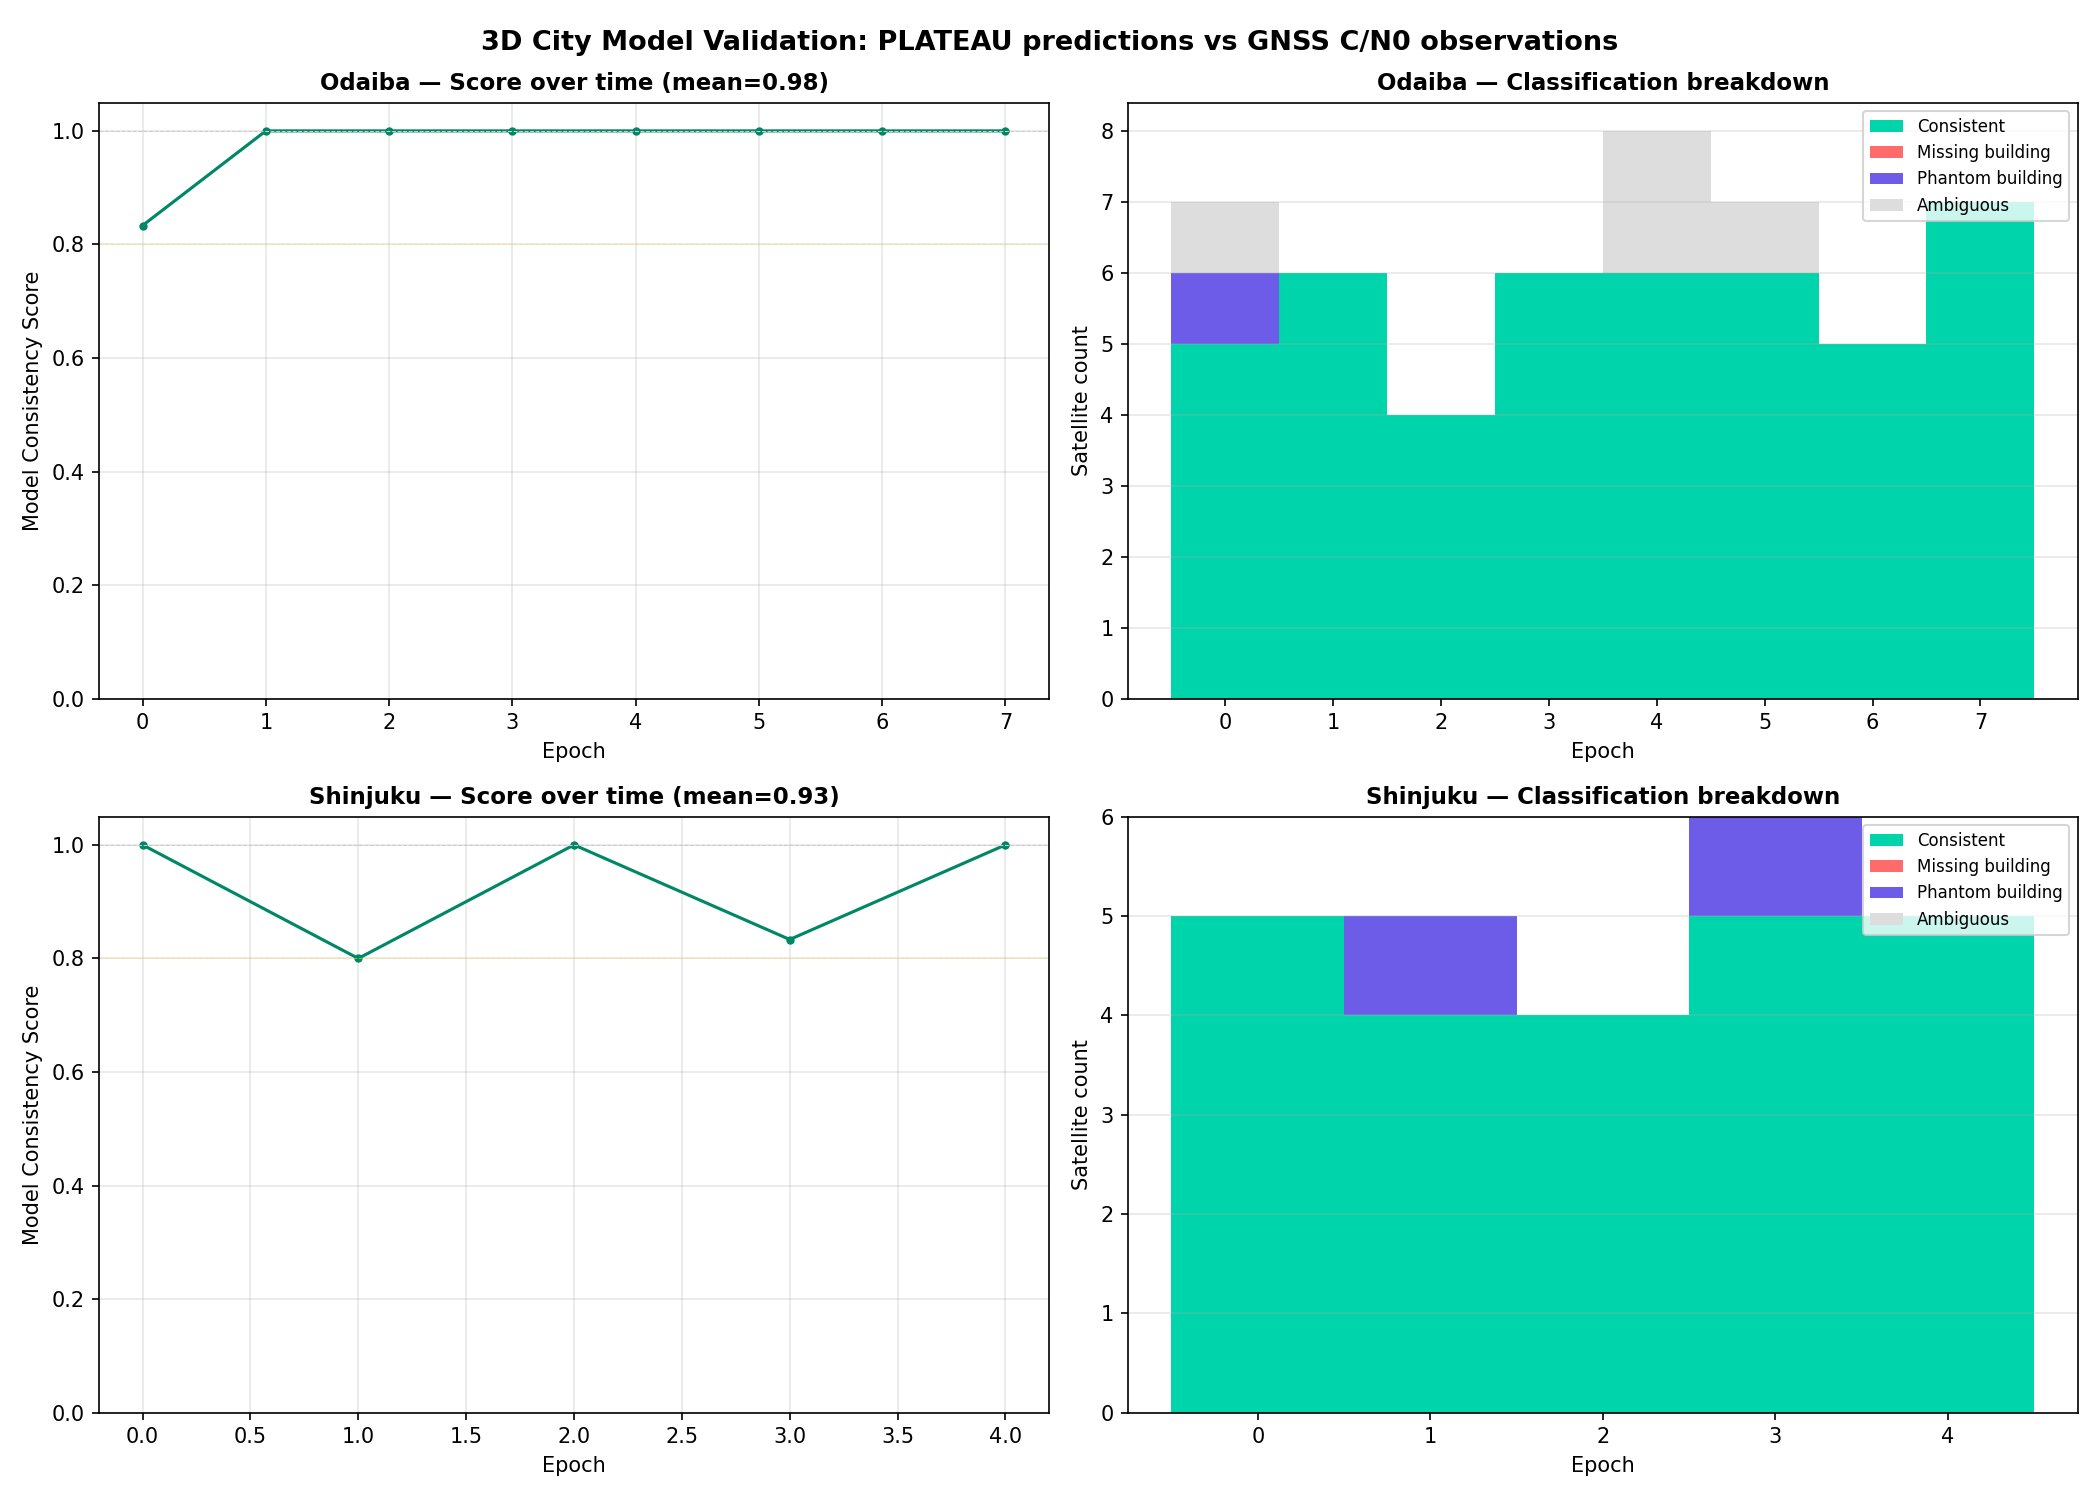
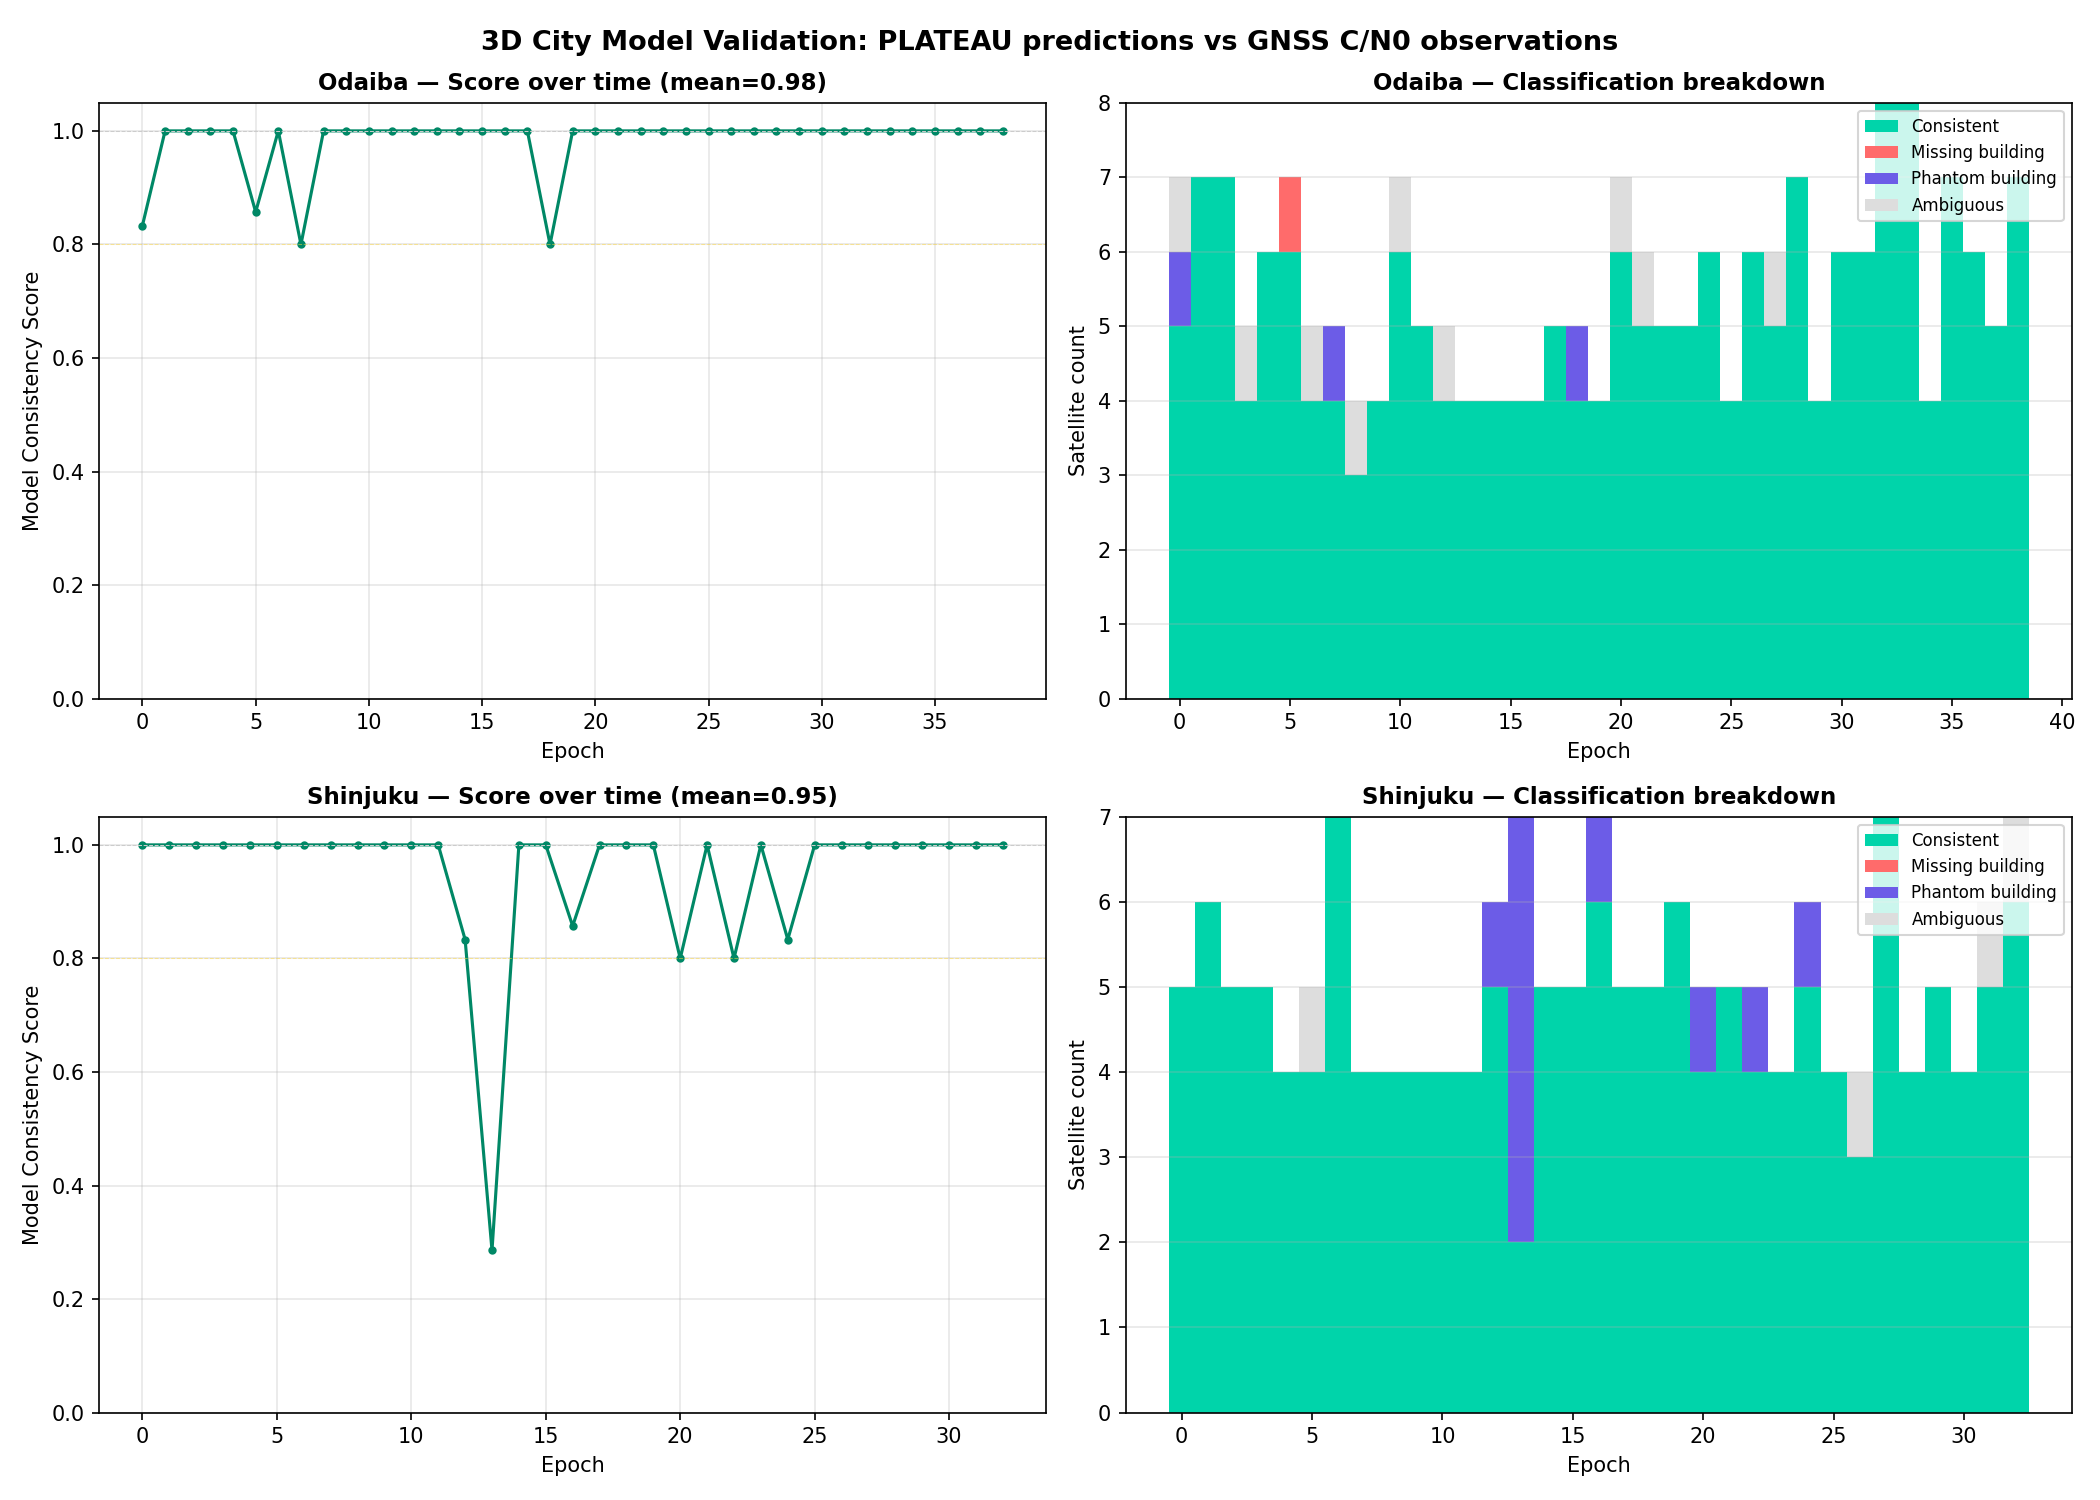
Address review: GPS TOW fix, more epochs, tests, docs
- Fix GPS TOW: use _datetime_to_gps_seconds_of_week (not manual weekday math)
- Increase epoch count: step=50 + interpolation + 10s gap threshold
  Odaiba: 8 -> 39 epochs, Shinjuku: 5 -> 33 epochs
- Add 11 unit tests for classify_satellite (all 4 outcomes + edge cases)
- Document find_cn0 observation code lookup per constellation

diff --git a/experiments/exp_city_model_validation.py b/experiments/exp_city_model_validation.py
@@ -16,7 +16,7 @@ import matplotlib.patches as mpatches
 import numpy as np
 
 from gnss_gpu.io.rinex import read_rinex_obs
-from gnss_gpu.io.nav_rinex import read_nav_rinex_multi
+from gnss_gpu.io.nav_rinex import read_nav_rinex_multi, _datetime_to_gps_seconds_of_week
 from gnss_gpu.ephemeris import Ephemeris
 from gnss_gpu.io.plateau import PlateauLoader
 from gnss_gpu.bvh import BVHAccelerator
@@ -39,7 +39,15 @@ def load_reference(csv_path, step=100):
 
 
 def find_cn0(obs_dict, system_prefix):
-    """Extract C/N0 from observation dict. Try S1C, S1X, S1I etc."""
+    """Extract L1-band C/N0 [dB-Hz] from a RINEX observation dict.
+
+    RINEX uses different observation codes per constellation:
+      GPS:     S1C (C/A code)
+      Galileo: S1X (pilot), S1B (data)
+      BeiDou:  S1I
+      QZSS:    S1C, S1L, S1Z
+    We try them in priority order and return the first positive value.
+    """
     for key in ["S1C", "S1X", "S1I", "S1L", "S1Z"]:
         if key in obs_dict and obs_dict[key] > 0:
             return obs_dict[key]
@@ -80,21 +88,30 @@ def run_validation(area_name, obs_path, nav_path, ref_path,
     for fi, ei in enumerate(epoch_indices):
         ep = rinex.epochs[ei]
 
-        # Find nearest reference position
-        # Convert epoch time to GPS TOW
-        dt = ep.time
-        gps_tow = (dt.hour * 3600 + dt.minute * 60 + dt.second +
-                    dt.microsecond / 1e6)
-        # Adjust for day offset
-        day_offset = (dt.weekday() + 1) % 7  # GPS week starts Sunday
-        gps_tow += day_offset * 86400
+        # Convert epoch time to GPS TOW using the canonical helper
+        gps_tow = _datetime_to_gps_seconds_of_week(ep.time)
 
-        # Find nearest reference
+        # Find nearest reference position (interpolate if within 2s)
         time_diffs = np.abs(ref_times - gps_tow)
         nearest_idx = np.argmin(time_diffs)
-        if time_diffs[nearest_idx] > 5.0:  # skip if >5s gap
+        if time_diffs[nearest_idx] > 10.0:  # skip if >10s gap
             continue
-        rx_ecef = ref_pos[nearest_idx]
+        if (time_diffs[nearest_idx] < 0.5 or nearest_idx == 0
+                or nearest_idx == len(ref_times) - 1):
+            rx_ecef = ref_pos[nearest_idx]
+        else:
+            # Linear interpolation between two nearest reference positions
+            if gps_tow > ref_times[nearest_idx] and nearest_idx < len(ref_times) - 1:
+                i0, i1 = nearest_idx, nearest_idx + 1
+            else:
+                i0, i1 = max(0, nearest_idx - 1), nearest_idx
+            dt_span = ref_times[i1] - ref_times[i0]
+            if dt_span > 0:
+                alpha = (gps_tow - ref_times[i0]) / dt_span
+                alpha = max(0.0, min(1.0, alpha))
+                rx_ecef = (1 - alpha) * ref_pos[i0] + alpha * ref_pos[i1]
+            else:
+                rx_ecef = ref_pos[nearest_idx]
 
         # Get GPS satellites with C/N0
         gps_sats = []
@@ -208,7 +225,7 @@ def main():
         nav_path="experiments/data/urbannav/Odaiba/base.nav",
         ref_path="experiments/data/urbannav/Odaiba/reference.csv",
         plateau_dir="experiments/data/plateau_odaiba",
-        max_epochs=30, step=400,
+        max_epochs=40, step=50,
     )
 
     # Shinjuku
@@ -218,7 +235,7 @@ def main():
         nav_path="experiments/data/urbannav/Shinjuku/base.nav",
         ref_path="experiments/data/urbannav/Shinjuku/reference.csv",
         plateau_dir="experiments/data/plateau_shinjuku",
-        max_epochs=30, step=400,
+        max_epochs=40, step=50,
     )
 
     # Plot

diff --git a/tests/test_city_model_validator.py b/tests/test_city_model_validator.py
@@ -1,0 +1,87 @@
+"""Tests for city_model_validator.classify_satellite()."""
+
+import math
+
+import numpy as np
+import pytest
+
+from gnss_gpu.city_model_validator import (
+    classify_satellite,
+    validate_epoch,
+    CN0_LOS_THRESHOLD,
+    CN0_NLOS_THRESHOLD,
+    ELEVATION_MASK_DEG,
+)
+
+
+class TestClassifySatellite:
+    """Test the 4-way classification logic."""
+
+    def test_los_predicted_strong_signal(self):
+        """Model says LOS, signal is strong -> consistent."""
+        assert classify_satellite(True, 40.0, 45.0) == "consistent"
+
+    def test_nlos_predicted_weak_signal(self):
+        """Model says NLOS, signal is weak -> consistent."""
+        assert classify_satellite(False, 20.0, 45.0) == "consistent"
+
+    def test_los_predicted_weak_signal(self):
+        """Model says LOS, signal is weak -> missing building."""
+        assert classify_satellite(True, 15.0, 45.0) == "missing_building"
+
+    def test_nlos_predicted_strong_signal(self):
+        """Model says NLOS, signal is strong -> phantom building."""
+        assert classify_satellite(False, 40.0, 45.0) == "phantom_building"
+
+    def test_low_elevation_is_ambiguous(self):
+        """Satellites below elevation mask are always ambiguous."""
+        assert classify_satellite(True, 40.0, 5.0) == "ambiguous"
+        assert classify_satellite(False, 15.0, 5.0) == "ambiguous"
+
+    def test_borderline_cn0_is_ambiguous(self):
+        """C/N0 between thresholds is ambiguous."""
+        mid_cn0 = (CN0_LOS_THRESHOLD + CN0_NLOS_THRESHOLD) / 2
+        assert classify_satellite(True, mid_cn0, 45.0) == "ambiguous"
+        assert classify_satellite(False, mid_cn0, 45.0) == "ambiguous"
+
+    def test_nan_cn0_is_ambiguous(self):
+        """NaN C/N0 is ambiguous."""
+        assert classify_satellite(True, float("nan"), 45.0) == "ambiguous"
+        assert classify_satellite(False, float("nan"), 45.0) == "ambiguous"
+
+    def test_exact_threshold_los(self):
+        """C/N0 exactly at LOS threshold."""
+        assert classify_satellite(True, CN0_LOS_THRESHOLD, 45.0) == "consistent"
+
+    def test_just_below_nlos_threshold(self):
+        """C/N0 just below NLOS threshold."""
+        assert classify_satellite(True, CN0_NLOS_THRESHOLD - 0.1, 45.0) == "missing_building"
+
+    def test_elevation_at_mask(self):
+        """Elevation exactly at mask -> ambiguous (< not <=)."""
+        assert classify_satellite(True, 40.0, ELEVATION_MASK_DEG) == "consistent"
+
+
+class TestValidateEpoch:
+    """Test validate_epoch with synthetic data."""
+
+    def test_all_consistent(self):
+        """All LOS satellites with strong signal."""
+        from gnss_gpu.raytrace import BuildingModel
+
+        # No buildings -> all LOS
+        building = BuildingModel.create_box(
+            center=[1000, 1000, 1000], width=1, depth=1, height=1)
+
+        rx = np.array([0.0, 0.0, 6378137.0])  # on Earth surface (north pole approx)
+        sats = np.array([
+            [0.0, 0.0, 6378137.0 + 20200e3],  # directly above
+            [5e6, 0.0, 6378137.0 + 20200e3],
+        ])
+        cn0 = np.array([42.0, 38.0])
+
+        result = validate_epoch(rx, sats, ["G01", "G02"], cn0, building)
+        assert result.n_consistent == 2
+        assert result.n_missing == 0
+        assert result.n_phantom == 0
+        assert result.model_score == 1.0
